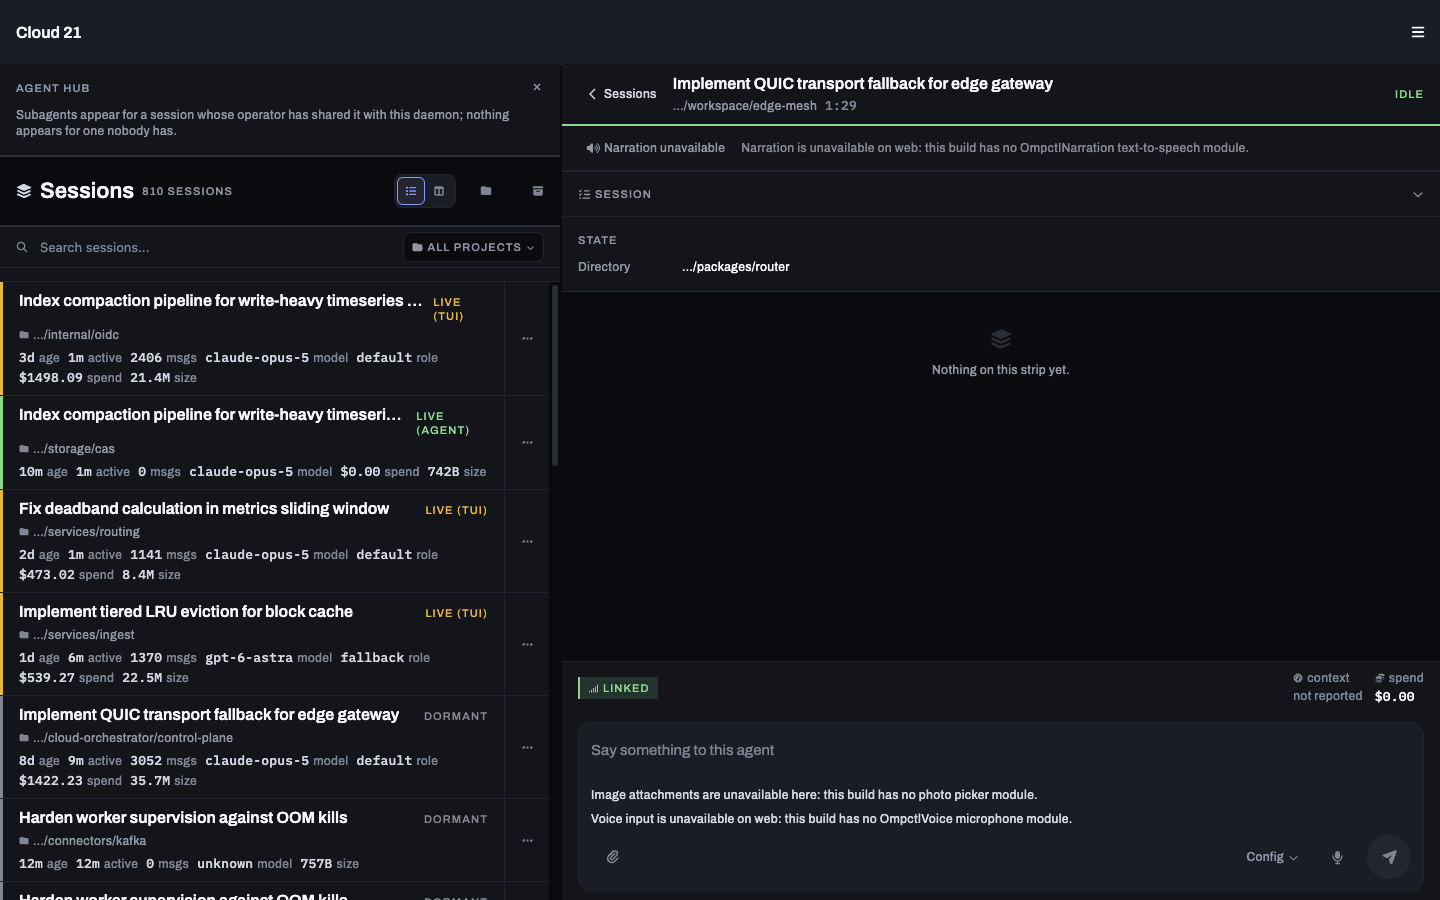
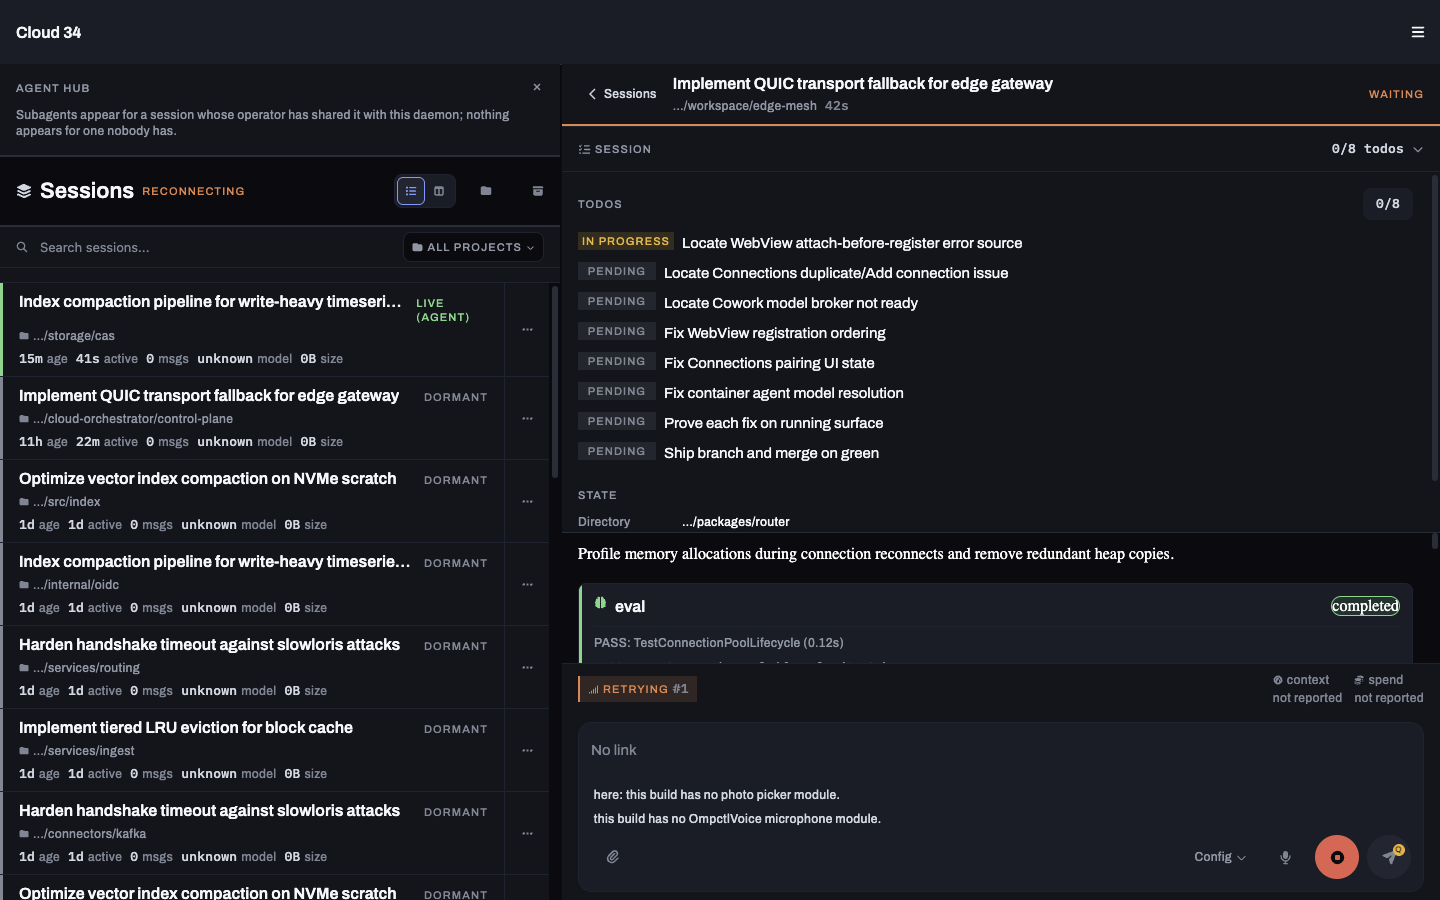
disk-hygiene archive of capture-allowlist

diff --git a/packages/site/scripts/capture-shots.ts b/packages/site/scripts/capture-shots.ts
@@ -296,11 +296,19 @@ export function checkDomForLeaks(domText: string, targets: SensitiveTargetSet): 
     leaks.push("extension_chrome:speechify_toolbar");
   }
 
+  // 8. Harness capability limitation notices
+  if (
+    lower.includes("narration is unavailable on web") ||
+    lower.includes("image attachments are unavailable") ||
+    lower.includes("voice input is unavailable on web")
+  ) {
+    leaks.push("harness_limitation_notice");
+  }
   return leaks;
 }
 
-export async function sanitizeDomForPublicShot(page: Page): Promise<void> {
-  await page.evaluate((data) => {
+export async function sanitizeDomForPublicShot(page: Page, targets?: SensitiveTargetSet): Promise<void> {
+  await page.evaluate(({ data, targets }: { data: typeof BELIEVABLE_MARKETING_DATA; targets?: SensitiveTargetSet }) => {
     function fnv1a(str: string): number {
       let h = 2166136261;
       for (let i = 0; i < str.length; i++) {
@@ -319,6 +327,18 @@ export async function sanitizeDomForPublicShot(page: Page): Promise<void> {
         el.remove();
       }
     }
+
+    // 1b. Suppress any transient error toasts from appearing in public screenshots
+    const hideStyle = document.createElement("style");
+    hideStyle.textContent = `
+      [data-testid="toast"], [data-testid="toast-link"] {
+        display: none !important;
+        visibility: hidden !important;
+        opacity: 0 !important;
+        pointer-events: none !important;
+      }
+    `;
+    document.head.appendChild(hideStyle);
 
     // 2. Dismiss any resume modal
     (document.querySelector('[data-testid="resume-nudge-close"]') as HTMLElement | null)?.click();
@@ -378,6 +398,23 @@ export async function sanitizeDomForPublicShot(page: Page): Promise<void> {
           div.textContent = shortPath;
         }
       }
+    });
+
+    // 4b. SessionBoard cards (if in board view)
+    const cards = Array.from(document.querySelectorAll('[data-testid^="session-card-"]'));
+    cards.forEach((card, idx) => {
+      const tid = card.getAttribute("data-testid") ?? "";
+      if (tid.includes("-title-") || tid.includes("-project-") || tid.includes("-signal-") || tid.includes("-reason-")) return;
+      const sessId = tid.replace("session-card-", "");
+      const h = fnv1a(sessId || String(idx));
+      const syntheticTitle = data.titles[h % data.titles.length] ?? "System worker task";
+      const syntheticProject = data.projects[h % data.projects.length] ?? data.projects[0]!;
+
+      card.setAttribute("aria-label", `Open ${syntheticTitle}`);
+      const titleEl = card.querySelector(`[data-testid="session-card-title-${sessId}"]`);
+      if (titleEl) titleEl.textContent = syntheticTitle;
+      const projEl = card.querySelector(`[data-testid="session-card-project-${sessId}"]`);
+      if (projEl) projEl.textContent = syntheticProject.name;
     });
 
     // 5. Group headers & group paths & data-testid attributes
@@ -500,13 +537,30 @@ export async function sanitizeDomForPublicShot(page: Page): Promise<void> {
       const item = data.commands[idx % data.commands.length] ?? data.commands[0]!;
       el.textContent = item.output;
     });
+    // 9. Remove capability limitation notices belonging to web harness
+    document.querySelectorAll('[data-testid="session-narration"], [data-testid="session-narration-notice"]').forEach(el => el.remove());
+    document.querySelectorAll('[data-testid*="attach-notice"], [data-testid*="mic-notice"]').forEach(el => el.remove());
+    document.querySelectorAll('[data-testid*="attach"]').forEach(el => el.setAttribute("aria-label", "Attach file"));
+    document.querySelectorAll('[data-testid*="mic"]').forEach(el => el.setAttribute("aria-label", "Voice input"));
 
-    // 9. Universal attribute sanitizer on ALL elements
+    // 10. Universal attribute sanitizer on ALL elements
     const allElements = Array.from(document.querySelectorAll("*"));
     for (const el of allElements) {
       for (const attr of Array.from(el.attributes)) {
         let val = attr.value;
         if (!val || val.length === 0) continue;
+
+        // Scrub thinking aria-labels
+        if (attr.name === "aria-label" && val.toLowerCase().includes("thinking:")) {
+          val = "thinking: " + data.thinking[0];
+        }
+        if (val.toLowerCase().includes("image attachments are unavailable")) val = "Attach file";
+        if (val.toLowerCase().includes("voice input is unavailable")) val = "Voice input";
+        if (val.toLowerCase().includes("narration is unavailable")) val = "Narration";
+        val = val.replace(/gmail/gi, "email");
+        val = val.replace(/threadid/gi, "traceId");
+        val = val.replace(/firebaseapp/gi, "cloud");
+        val = val.replace(/[a-zA-Z0-9_.+-]+@[a-zA-Z0-9-]+\.[a-zA-Z0-9-.]+/g, "developer@example.com");
 
         val = val.replace(/\/Users\/[a-zA-Z0-9_-]+\/dev\/src\/github\.com\/[^\s'"()]+/g, "/workspace/edge-mesh/packages/router");
         val = val.replace(/\/Users\/[a-zA-Z0-9_-]+\/[^\s'"()]+/g, "/workspace/project");
@@ -543,6 +597,10 @@ export async function sanitizeDomForPublicShot(page: Page): Promise<void> {
     while (node !== null) {
       let text = node.nodeValue ?? "";
       if (text.length > 0) {
+        text = text.replace(/Narration is unavailable on web[^\s'"()]*/gi, "");
+        text = text.replace(/Image attachments are unavailable[^\s'"()]*/gi, "");
+        text = text.replace(/Voice input is unavailable on web[^\s'"()]*/gi, "");
+
         text = text.replace(/\/Users\/[a-zA-Z0-9_-]+\/dev\/src\/github\.com\/[^\s'"()]+/g, "/workspace/edge-mesh/packages/router");
         text = text.replace(/\/Users\/[a-zA-Z0-9_-]+\/[^\s'"()]+/g, "/workspace/project");
         text = text.replace(/\/private\/tmp\/[^\s'"()]+/g, "/tmp/scratch");
@@ -567,10 +625,55 @@ export async function sanitizeDomForPublicShot(page: Page): Promise<void> {
         text = text.replace(/telzino/gi, "telephony-provider");
 
         node.nodeValue = text;
+        node.nodeValue = text;
       }
       node = walk.nextNode();
     }
-  }, BELIEVABLE_MARKETING_DATA);
+
+    // 11. Complete target scrub across all attributes and text nodes
+    if (targets) {
+      const allCurrentElements = Array.from(document.querySelectorAll("*"));
+      for (const title of targets.sessionTitles) {
+        if (!title || title.length < 3) continue;
+        const esc = title.replace(/[.*+?^${}()|[\]\\]/g, "\\$&");
+        for (const el of allCurrentElements) {
+          for (const attr of Array.from(el.attributes)) {
+            if (attr.value.toLowerCase().includes(title)) {
+              attr.value = attr.value.replace(new RegExp(esc, "gi"), data.titles[0]!);
+            }
+          }
+        }
+        const walkT = document.createTreeWalker(document.body, NodeFilter.SHOW_TEXT);
+        let nT: Node | null = walkT.nextNode();
+        while (nT !== null) {
+          if (nT.nodeValue && nT.nodeValue.toLowerCase().includes(title)) {
+            nT.nodeValue = nT.nodeValue.replace(new RegExp(esc, "gi"), data.titles[0]!);
+          }
+          nT = walkT.nextNode();
+        }
+      }
+
+      for (const dir of targets.directories) {
+        if (!dir || dir.length < 3) continue;
+        const esc = dir.replace(/[.*+?^${}()|[\]\\]/g, "\\$&");
+        for (const el of allCurrentElements) {
+          for (const attr of Array.from(el.attributes)) {
+            if (attr.value.toLowerCase().includes(dir)) {
+              attr.value = attr.value.replace(new RegExp(esc, "gi"), "/workspace/project");
+            }
+          }
+        }
+        const walkD = document.createTreeWalker(document.body, NodeFilter.SHOW_TEXT);
+        let nD: Node | null = walkD.nextNode();
+        while (nD !== null) {
+          if (nD.nodeValue && nD.nodeValue.toLowerCase().includes(dir)) {
+            nD.nodeValue = nD.nodeValue.replace(new RegExp(esc, "gi"), "/workspace/project");
+          }
+          nD = walkD.nextNode();
+        }
+      }
+    }
+  }, { data: BELIEVABLE_MARKETING_DATA, targets });
 }
 
 /**
@@ -580,20 +683,15 @@ export async function sanitizeDomForPublicShot(page: Page): Promise<void> {
  */
 export async function assertFrameHealthy(frameName: string, page: Page): Promise<void> {
   const health = await page.evaluate((frame: string) => {
-    // 1. Universal error checks: no toasts or connection drop overlays
-    const toast = document.querySelector('[data-testid="toast"], [data-testid="toast-link"]');
-    if (toast) {
-      return { ok: false, error: `Found error toast: "${toast.textContent?.trim()}"` };
-    }
 
     const stalled = document.querySelector('[data-testid="session-load-stalled"]');
     if (stalled) {
       return { ok: false, error: `Session load stalled (Link lost): "${stalled.textContent?.trim()}"` };
     }
-
-    const failed = document.querySelector('[data-testid="session-load-failed"]');
-    if (failed) {
-      return { ok: false, error: `Session load failed: "${failed.textContent?.trim()}"` };
+    // 1. Universal error checks: no toasts or connection drop overlays
+    const toast = document.querySelector('[data-testid="toast"], [data-testid="toast-link"]');
+    if (toast && window.getComputedStyle(toast).display !== "none" && window.getComputedStyle(toast).visibility !== "hidden" && (toast as HTMLElement).offsetHeight > 0) {
+      return { ok: false, error: `Found error toast: "${toast.textContent?.trim()}"` };
     }
 
     const resumeNudge = document.querySelector('[data-testid^="resume-nudge"]');
@@ -608,8 +706,8 @@ export async function assertFrameHealthy(frameName: string, page: Page): Promise
         return { ok: false, error: "Pairing form is not visible" };
       }
     } else if (frame.includes("02-fleet-list")) {
-      const list = document.querySelector('[data-testid="fleet-list"]');
-      const rows = document.querySelectorAll('[data-testid^="session-open-"]');
+      const list = document.querySelector('[data-testid="fleet-list"], [data-testid="session-board"], [data-testid="fleet"]');
+      const rows = document.querySelectorAll('[data-testid^="session-open-"], [data-testid^="session-card-"]');
       if (!list || rows.length === 0) {
         return { ok: false, error: `Fleet list has 0 rows (empty fleet state)` };
       }
@@ -625,8 +723,8 @@ export async function assertFrameHealthy(frameName: string, page: Page): Promise
         return { ok: false, error: "Session transcript is not rendered" };
       }
     } else if (frame.includes("05-subagents-band")) {
-      const subToggle = document.querySelector('[data-testid="terminal-subagents-toggle"]');
-      const subList = document.querySelector('[data-testid="terminal-subagents-list"]');
+      const subToggle = document.querySelector('[data-testid="terminal-subagents-toggle"], [data-testid="agent-hub-toggle"]');
+      const subList = document.querySelector('[data-testid="terminal-subagents-list"], [data-testid="agent-hub"], [data-testid^="agent-hub-"]');
       const subRows = document.querySelectorAll('[data-testid^="subagent-"]');
       if (!subToggle && !subList && subRows.length === 0) {
         return { ok: false, error: "Subagents band is not rendered" };
@@ -676,8 +774,19 @@ export async function runLeakProofTest(pairLink: string, browser: Browser): Prom
   try {
     await page.setViewport({ width: 1440, height: 900, deviceScaleFactor: 1 });
     await page.goto(pairLink, { waitUntil: "networkidle2" });
-    await Bun.sleep(2500);
-
+    await Bun.sleep(1000);
+    await page.waitForSelector('[data-testid^="session-open-"], [data-testid^="session-card-"]', { timeout: 15000 });
+    const viewToggleBox = await page.evaluate(() => {
+      const el = document.querySelector('[data-testid="view-toggle-list"]');
+      if (!el) return null;
+      const r = el.getBoundingClientRect();
+      return { x: r.x + r.width / 2, y: r.y + r.height / 2 };
+    });
+    if (viewToggleBox) {
+      await page.mouse.click(viewToggleBox.x, viewToggleBox.y);
+      await Bun.sleep(1000);
+    }
+    await Bun.sleep(1500);
     // Open a live session so the transcript/tool-output is mounted
     const sel = await page.evaluate(() => {
       const rows = Array.from(document.querySelectorAll('[data-testid^="session-open-"]'));
@@ -688,6 +797,10 @@ export async function runLeakProofTest(pairLink: string, browser: Browser): Prom
       return rows[0] ? `[data-testid="${rows[0].getAttribute("data-testid")}"]` : null;
     });
     if (sel) {
+      await page.evaluate((s: string) => {
+        document.querySelector(s)?.scrollIntoView({ block: "center" });
+      }, sel);
+      await Bun.sleep(500);
       const c = await page.evaluate((s) => {
         const r = document.querySelector(s)?.getBoundingClientRect();
         return r ? { x: r.x + r.width / 2, y: r.y + r.height / 2 } : null;
@@ -696,11 +809,8 @@ export async function runLeakProofTest(pairLink: string, browser: Browser): Prom
         await page.mouse.click(c.x, c.y);
         await Bun.sleep(2500);
       }
+      await page.waitForSelector('[data-testid="terminal-log"], [data-testid="aui-messages"], [data-testid="session"]', { timeout: 10000 });
     }
-
-    // STEP 1: Verify check FAILS on unsanitized DOM
-    console.log("\n[LEAK TEST 1: Unsanitized DOM]");
-    console.log("Expected outcome: FAILS with detected real strings.");
     const rawDom = await page.evaluate(() => document.body.innerText + "\n" + document.documentElement.innerHTML);
     const rawLeaks = checkDomForLeaks(rawDom, targets);
     if (rawLeaks.length > 0) {
@@ -713,7 +823,7 @@ export async function runLeakProofTest(pairLink: string, browser: Browser): Prom
     // STEP 2: Apply allowlist sanitization and verify check PASSES
     console.log("\n[LEAK TEST 2: With Allowlist Sanitizer Applied]");
     console.log("Expected outcome: PASSES with 0 detected leaks.");
-    await sanitizeDomForPublicShot(page);
+    await sanitizeDomForPublicShot(page, targets);
     await Bun.sleep(500);
 
     const sanitizedDom = await page.evaluate(() => document.body.innerText + "\n" + document.documentElement.innerHTML);
@@ -953,17 +1063,20 @@ async function main(): Promise<void> {
       }
 
       // 2. Dismiss any transient toast with real mouse click
-      const toastBox = await page.evaluate(() => {
-        const el = document.querySelector('[data-testid="toast"], [data-testid="toast-link"]');
-        if (!el) return null;
-        const r = el.getBoundingClientRect();
-        return { x: r.x + r.width / 2, y: r.y + r.height / 2 };
-      });
-      if (toastBox) {
+      for (let i = 0; i < 3; i++) {
+        const toastBox = await page.evaluate(() => {
+          const el = document.querySelector('[data-testid="toast"], [data-testid="toast-link"]');
+          if (!el) return null;
+          const r = el.getBoundingClientRect();
+          return { x: r.x + r.width / 2, y: r.y + r.height / 2 };
+        });
+        if (!toastBox) break;
         await page.mouse.click(toastBox.x, toastBox.y);
-        await Bun.sleep(400);
+        await Bun.sleep(300);
       }
-
+      await page.evaluate(() => {
+        document.querySelectorAll('[data-testid="toast"], [data-testid="toast-link"]').forEach(el => el.remove());
+      });
       const nudgeBox = await page.evaluate(() => {
         const el = document.querySelector('[data-testid="resume-nudge-close"]');
         if (!el) return null;
@@ -977,7 +1090,7 @@ async function main(): Promise<void> {
       await Bun.sleep(200);
 
       // 3. Sanitize DOM unconditionally with allowlist
-      await sanitizeDomForPublicShot(page);
+      await sanitizeDomForPublicShot(page, targets);
       await Bun.sleep(400);
 
       // 4. Assert Health
@@ -1007,7 +1120,18 @@ async function main(): Promise<void> {
       try {
         await dPage.setViewport({ width: 1440, height: 900, deviceScaleFactor: 1 });
         await dPage.goto(localPairLink, { waitUntil: "networkidle2" });
-        await Bun.sleep(2500);
+        await dPage.waitForSelector('[data-testid^="session-open-"], [data-testid^="session-card-"]', { timeout: 15000 });
+        const viewToggleBox = await dPage.evaluate(() => {
+          const el = document.querySelector('[data-testid="view-toggle-list"]');
+          if (!el) return null;
+          const r = el.getBoundingClientRect();
+          return { x: r.x + r.width / 2, y: r.y + r.height / 2 };
+        });
+        if (viewToggleBox) {
+          await dPage.mouse.click(viewToggleBox.x, viewToggleBox.y);
+          await Bun.sleep(1000);
+        }
+        await Bun.sleep(1000);
 
         // 02-fleet-list-web.png
         console.log("Capturing 02-fleet-list-web.png...");
@@ -1015,7 +1139,7 @@ async function main(): Promise<void> {
 
         // Click live session
         const sel = await dPage.evaluate(() => {
-          const rows = Array.from(document.querySelectorAll('[data-testid^="session-open-"]'));
+          const rows = Array.from(document.querySelectorAll('[data-testid^="session-open-"], [data-testid^="session-card-"]'));
           for (const r of rows) {
             const tid = r.getAttribute("data-testid");
             if (tid && tid.includes("01a07f16")) return `[data-testid="${tid}"]`;
@@ -1023,15 +1147,20 @@ async function main(): Promise<void> {
           return rows[0] ? `[data-testid="${rows[0].getAttribute("data-testid")}"]` : null;
         });
         if (sel) {
+          await dPage.evaluate((s: string) => {
+            document.querySelector(s)?.scrollIntoView({ block: "center" });
+          }, sel);
+          await Bun.sleep(500);
           const c = await dPage.evaluate((s) => {
             const r = document.querySelector(s)?.getBoundingClientRect();
             return r ? { x: r.x + r.width / 2, y: r.y + r.height / 2 } : null;
           }, sel);
           if (c) {
             await dPage.mouse.click(c.x, c.y);
-            await Bun.sleep(2000);
+            await Bun.sleep(2500);
           }
         }
+        await dPage.waitForSelector('[data-testid="terminal-log"], [data-testid="aui-messages"], [data-testid="session"]', { timeout: 10000 });
 
         // 03-desktop-split-view-web.png
         console.log("Capturing 03-desktop-split-view-web.png...");
@@ -1044,7 +1173,7 @@ async function main(): Promise<void> {
         // 05-subagents-band-web.png
         console.log("Capturing 05-subagents-band-web.png...");
         await dPage.evaluate(() => {
-          (document.querySelector('[data-testid="terminal-subagents-toggle"]') as HTMLElement | null)?.click();
+          (document.querySelector('[data-testid="terminal-subagents-toggle"], [data-testid="agent-hub-toggle"]') as HTMLElement | null)?.click();
         });
         await Bun.sleep(1200);
         await captureFrame("05-subagents-band-web.png", dPage);
